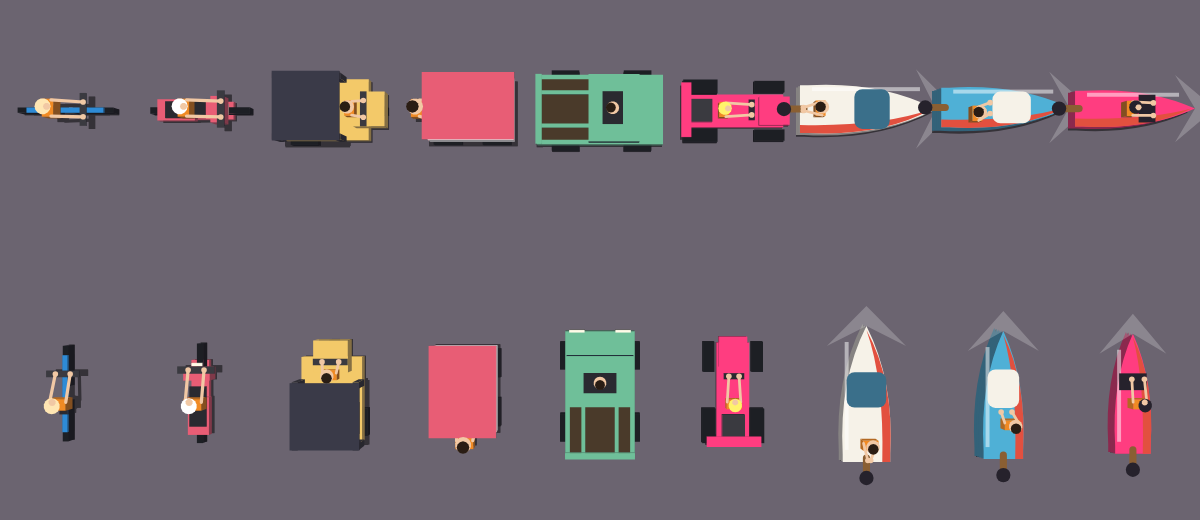
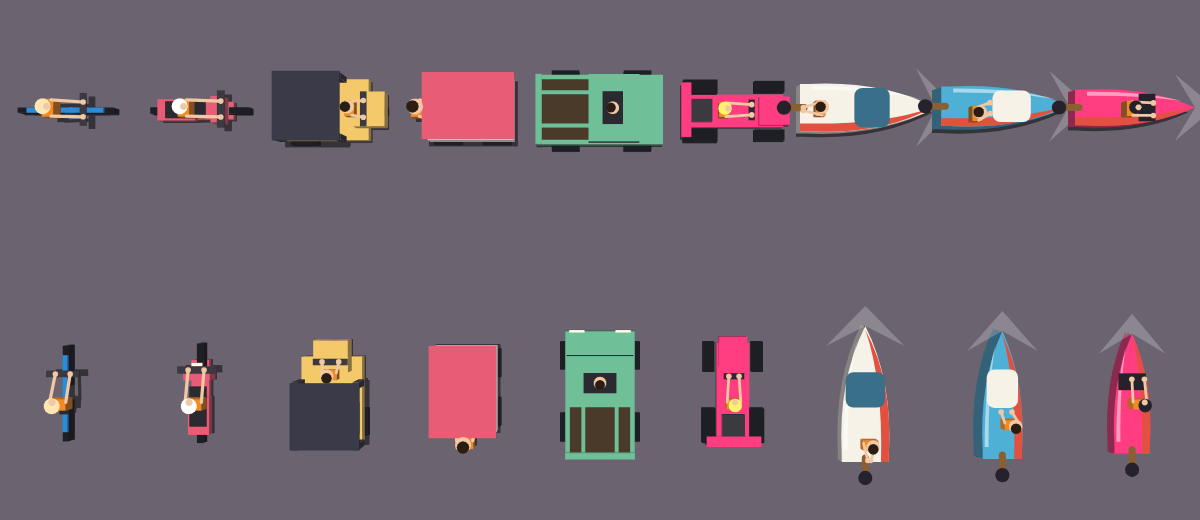
feat(render): el faro, la Concha y la Capitanía en 3D; fuera la línea blanca de los botes
- El faro es un cuerpo (bodies.faro): zócalo, fuste que se angosta con sus
  franjas, galería con baranda, linterna y cúpula; la escena pinta sólo el suelo.
- La Concha: gradas con contrahuella, cantos y muro de atrás, y el escenario en
  media luna con su costado, sobre el aparejo (punta.js → shellForm), con su
  sombra de una vez.
- La Capitanía según la foto: rectangular (las esquinas en diagonal de la
  huella de OSM way/380233859 son del boceto), paredes verdes, balcón con
  baranda alrededor de la planta alta, columnas, puertas y ventanas en cada
  fachada, y el techo sólo sobre la casa para que el balcón se vea.
- boatHull: el brillo de la borda sigue la curva del casco; era un rectángulo
  recto que se salía del costado hacia la proa.

Claude-Session: https://claude.ai/code/session_018GSydgtbAbdgpJPFkJ2EAM

diff --git a/src/render/c2d/punta.js b/src/render/c2d/punta.js
@@ -29,6 +29,7 @@ import { paintMaleconPattern } from "./systemShapes.js";
 import { BALDOSA_PX } from "./malecon.js";
 import { bodyAt, queueBody, queueBodyLike } from "./bodies.js";
 import { parallaxOffset } from "./depth.js";
+import { makeRig, withShadowLayer } from "./rig3d.js";
 import { state } from "../../game/state.js";
 import MATERIALS from "../../assets/materials.json" with { type: "json" };
 import PROPS from "../../assets/world-props.json" with { type: "json" };
@@ -319,6 +320,45 @@ function paintShellLeaves(mo, C, K, R, leaves, ringR, L, Wd, leafPath, ppm) {
   ctx.restore();
 }
 
+// LAS GRADAS Y EL ESCENARIO DE LA CONCHA, en 3D sobre el aparejo (`rig3d.js`, metros, marco del
+// monumento: +v hacia el mar). Cada grada es un anillo un escalón más alto que el de adentro: su
+// CONTRAHUELLA (la pared que mira al escenario), su huella arriba y sus dos cantos en las puntas; atrás
+// de la última, el muro. El escenario es una media luna con su costado curvo, su frente recto y los
+// escalones blancos en la tapa.
+function shellForm(Rg, Rm, C) {
+  const t0 = Rm * 0.62, step = Rm * 0.34 / C.tiers, a0 = Math.PI * 1.02, a1 = Math.PI * 1.98, N = 28;
+  const arc = (r, z, from, to, cx = 0, cy = 0) => Array.from({ length: N + 1 }, (_, i) => {
+    const a = from + (to - from) * i / N; return [cx + Math.cos(a) * r, cy + Math.sin(a) * r, z];
+  });
+  for (let k = 1; k <= C.tiers; k++) {
+    const r0 = t0 + step * (k - 1), r1 = t0 + step * k, zl = C.tierRiseM * (k - 1), zh = C.tierRiseM * k;
+    Rg.at(zh - 0.002, () => {
+      Rg.poly([...arc(r0, zl, a0, a1), ...arc(r0, zh, a1, a0)], C.riser);
+      for (const a of [a0, a1]) {
+        const c = Math.cos(a), s = Math.sin(a);
+        Rg.poly([[c * r0, s * r0, 0], [c * r1, s * r1, 0], [c * r1, s * r1, zh], [c * r0, s * r0, zh]], C.riser);
+      }
+    });
+    Rg.at(zh, () => {
+      Rg.poly([...arc(r1, zh, a0, a1), ...arc(r0, zh, a1, a0)], C.tier);
+      if (!Rg.shadow) Rg.line(arc(r0, zh, a0, a1), 0.1, C.tierEdge);
+    });
+  }
+  const rN = t0 + step * C.tiers, zN = C.tierRiseM * C.tiers;
+  Rg.at(zN - 0.003, () => Rg.poly([...arc(rN, 0, a0, a1), ...arc(rN, zN, a1, a0)], C.riser));
+  const cy = Rm * 0.04, sr = Rm * 0.42, zs = C.stageM;
+  Rg.at(zs - 0.002, () => {
+    Rg.poly([...arc(sr, 0, 0, Math.PI, 0, cy), ...arc(sr, zs, Math.PI, 0, 0, cy)], C.stageSide);
+    Rg.poly([[-sr, cy, 0], [sr, cy, 0], [sr, cy, zs], [-sr, cy, zs]], C.stageSide);
+  });
+  Rg.at(zs, () => {
+    Rg.poly(arc(sr, zs, 0, Math.PI, 0, cy), C.stage);
+    if (Rg.shadow) return;
+    for (const f of [0.82, 0.66]) Rg.line(arc(sr * f, zs + 0.01, 0.08, Math.PI - 0.08, 0, cy), 0.28, C.stageStep);
+    Rg.line([[-sr, cy, zs + 0.01], [sr, cy, zs + 0.01]], 0.28, C.stageStep);
+  });
+}
+
 function paintMonument(mo, ppm) {
   const K = M.monuments, C = K[mo.kind];
   if (!C) return;
@@ -336,26 +376,10 @@ function paintMonument(mo, ppm) {
     const R = mo.size || C.rM * ppm, lift = liftOf(mo, ppm);
     // el piso gris que llena el círculo entero de la Concha, gradas y hojas incluidas
     ctx.beginPath(); ctx.arc(0, 0, R * 1.04, 0, Math.PI * 2); ctx.fillStyle = C.floor; ctx.fill(); ctx.strokeStyle = C.floorEdge; ctx.lineWidth = 1.5; ctx.stroke();
-    // LAS GRADAS SUBEN: cada una es un anillo un escalón más alto que la de adentro, con su contrahuella.
-    // De adentro hacia afuera, así la de atrás —más alta— tapa a la de adelante. Atrás de todo, el muro.
-    const t0 = R * 0.62, step = R * 0.34 / C.tiers, a0 = Math.PI * 1.02, a1 = Math.PI * 1.98;
-    const band = (r0, r1, o) => { ctx.beginPath(); ctx.arc(o[0], o[1], r1, a0, a1); ctx.arc(o[0], o[1], r0, a1, a0, true); ctx.closePath(); };
-    for (let k = 1; k <= C.tiers; k++) {
-      const r0 = t0 + step * (k - 1), r1 = t0 + step * k, lo = lift(C.tierRiseM * (k - 1)), hi = lift(C.tierRiseM * k);
-      band(r0, r1, lo); ctx.fillStyle = C.tierEdge; ctx.fill();
-      band(r0, r1, hi); ctx.fillStyle = C.tier; ctx.fill();
-      ctx.strokeStyle = C.tierEdge; ctx.lineWidth = 1; ctx.beginPath(); ctx.arc(hi[0], hi[1], r0, a0, a1); ctx.stroke();
-    }
-    // la plaza de adoquín con su aro amarillo
+    // la plaza de adoquín con su aro amarillo (en el suelo; las gradas y el escenario se levantan en 3D)
+    const t0 = R * 0.62;
     ctx.beginPath(); ctx.arc(0, 0, t0, 0, Math.PI * 2); ctx.fillStyle = C.plaza; ctx.fill();
     ctx.beginPath(); ctx.arc(0, 0, t0 * 0.9, Math.PI * 1.05, Math.PI * 1.95); ctx.strokeStyle = C.ring; ctx.lineWidth = Math.max(1, 0.25 * ppm); ctx.stroke();
-    // el escenario: media luna turquesa, levantada, con sus escalones blancos
-    const sr = R * 0.42, st = lift(C.stageM);
-    ctx.beginPath(); ctx.arc(0, R * 0.04, sr, 0, Math.PI); ctx.closePath(); ctx.fillStyle = C.stageSide; ctx.fill();
-    ctx.beginPath(); ctx.arc(st[0], R * 0.04 + st[1], sr, 0, Math.PI); ctx.closePath(); ctx.fillStyle = C.stage; ctx.fill();
-    ctx.strokeStyle = C.stageStep; ctx.lineWidth = Math.max(1, 0.3 * ppm);
-    for (const f of [0.82, 0.66]) { ctx.beginPath(); ctx.arc(st[0], R * 0.04 + st[1], sr * f, 0.08, Math.PI - 0.08); ctx.stroke(); }
-    ctx.beginPath(); ctx.moveTo(st[0] - sr, R * 0.04 + st[1]); ctx.lineTo(st[0] + sr, R * 0.04 + st[1]); ctx.stroke();
     // las hojas: su sombra va acá, en el piso; las hojas y sus pilares se LEVANTAN y van con los cuerpos
     const n = C.leaves, arc = C.leafArcDeg * RAD, ringR = R * 0.93, L = R * C.leafLen, Wd = R * C.leafW;
     const leaves = [];
@@ -371,7 +395,12 @@ function paintMonument(mo, ppm) {
       ctx.restore();
     }
     ctx.restore();
-    queueBodyLike({ x: mo.x, y: mo.y, paint: (pp) => paintShellLeaves(mo, C, K, R, leaves, ringR, L, Wd, leafPath, pp) });
+    // LAS GRADAS Y EL ESCENARIO EN 3D (`shellForm`): su sombra de una vez, en el suelo; ellos, con los cuerpos
+    const Rm = R / ppm, topM = C.tierRiseM * C.tiers + 0.5;
+    const rig = (g, mode) => { const S = makeRig(g, mo.x, mo.y, mo.ang || 0, ppm, state.cam, mode, C.shade, topM); shellForm(S, Rm, C); S.flush(); };
+    const sun = sunShadow(1);
+    if (sun.alpha > 0) withShadowLayer(ctx, mo.x, mo.y, R * 1.3, sun.alpha * C.shadowAlpha, (g) => rig(g, "sun"));
+    queueBodyLike({ x: mo.x, y: mo.y, paint: (pp) => { rig(ctx, "cam"); paintShellLeaves(mo, C, K, R, leaves, ringR, L, Wd, leafPath, pp); } });
     return;
   }
   if (mo.kind === "letters") {

diff --git a/src/render/c2d/landmarks.js b/src/render/c2d/landmarks.js
@@ -67,9 +67,11 @@ function drawFaroScene(lm) {
     // la sombra de la torre: la del sol de todos, llevada al marco (escalado) de la escena
     vars: { rim, seed: lm.x, flora: FLORA, solar: floraSolar(), timeMs: lastT, shadow: faroShadow(k), floraElsewhere: canvasOwns("flora") }, timeMs: lastT,
   };
-  if (canvasOwns("faro")) paintSceneParts(ctx, PROPS, "faro", frame);
-  else paintSceneParts(ctx, faroGroundRegistry(), "faro", frame);
+  // la escena pinta el SUELO (escollera y comas); la torre es un CUERPO 3D (`bodies.faro`), con su
+  // sombra al sol, que se levanta con el mismo pinhole que los edificios
+  paintSceneParts(ctx, faroGroundRegistry(), "faro", frame);
   ctx.restore();
+  if (canvasOwns("faro")) queueBody(bodyAt(PROPS.bodies.faro, x, y, 0, "faro"));
   // LAS PALMERAS DEL FARO SON PALMERAS COMO LAS DEMÁS: las pinta `paintPalm`, en 2.5D y con la
   // sombra del sol. El verbo `flora-placements` de la escena las dibujaba en alzado, con su elipse.
   if (canvasOwns("faro") && canvasOwns("flora")) for (const part of PROPS.scenes.faro.parts) {

diff --git a/tests/test_world_props.py b/tests/test_world_props.py
@@ -368,8 +368,12 @@ class WorldPropTests(unittest.TestCase):
         for verb in used:
             self.assertIn(f'"{verb}"', interpreter)
         landmarks = read(LANDMARKS_JS)
-        for scene in ("faro", "fountain", "pool", "lote"):
+        for scene in ("fountain", "pool", "lote"):
             self.assertIn(f'paintSceneParts(ctx, PROPS, "{scene}"', landmarks)
+        # EL FARO: la escena pinta su SUELO (sin la torre ni las palmas) y la torre es un cuerpo 3D
+        # (`bodies.faro`). `lighthouse-tower` sigue en la escena para la hoja de arte y el editor.
+        self.assertIn('paintSceneParts(ctx, faroGroundRegistry(), "faro"', landmarks)
+        self.assertIn("PROPS.bodies.faro", landmarks)
 
     def test_scene_interpreter_owns_no_authored_colours(self):
         js = re.sub(r"/\*.*?\*/", "", read(SCENE_SHAPES_JS), flags=re.S)
